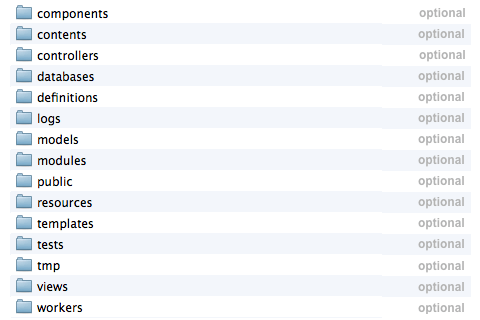
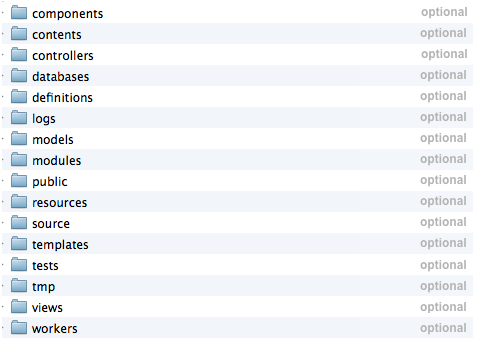
updated documentation

Changed region(s): [[0.0, 0.0, 0.25, 1.0], [0.875, 0.0, 0.9688, 1.0]]

diff --git a/views/directory.html b/views/directory.html
@@ -7,7 +7,7 @@
 </div>
 <br />
 <div class="image">
-	@{image('directory-structure.png', 480, 320, 'Directory structure')}
+	@{image('directory-structure.png', 480, 340, 'Directory structure')}
 	<div>total.js web project - directory structure</div>
 </div>
 
@@ -60,6 +60,11 @@
 <br />
 <h2>Directory: resources</h2>
 <div class="mt20 text"><span class="high">optional</span> If you create web pages that will be read by speakers of different languages, you must provide a way for readers to view the page in their own language. This way is resources. A resource file is a plain text file that contains the strings. Resource file has same syntax as a config file.<br /><br /><a href="/how-does-it-work/resources/" class="link">How do resources work?</a><br /><a href="/Framework/#framework.resource" class="link">Documentation: framework.resource()</a><br /><a href="/FrameworkController/#controller.resource" class="link">Documentation: controller.resource()</a><br /><a href="/FrameworkViews/#resource" class="link">Documentation: view @&#123;resource()&#125;</a><br /><div class="documentation-example"><a href="https://github.com/totaljs/examples/tree/master/localization-resources">Example</a></div></div>
+<br />
+<hr />
+<br />
+<h2>Directory: source</h2>
+<div class="mt20 text"><span class="high">optional</span> This directory contains <b>business logic</b> of your application.<br /><br /><a href="/Framework/#framework.source" class="link">Documentation: framework.source()</a><br /><a href="/global/#source" class="link">Documentation: source()</a><br /><a href="/global/#include" class="link">Documentation: include()</a><br /><div class="documentation-example"><a href="https://github.com/totaljs/examples/tree/master/framework-business-logic-source">Example</a></div></div>
 <br />
 <hr />
 <br />

diff --git a/views/how-it-works-validation.html b/views/how-it-works-validation.html
@@ -12,9 +12,9 @@
 		<li>All logic of validation is in one delegate - framework.onValidation().</li>
 		<li>Validation can be used in controller.</li>
 		<li>Result of validation is <a href="/Builders.ErrorBuilder/" class="link">Builders.ErrorBuilder</a>.</li>
-		<li>For the validation use <a href="/Builders.SchemaBuilder/" class="link">Builders.SchemaBuilder</a> - <a href="https://github.com/totaljs/examples/tree/master/framework-schema" class="link">Schema validation example</a>.</li>
+		<li>For the validation use <a href="/Builders.SchemaBuilder/" class="link">Builders.SchemaBuilder</a> - <a href="https://github.com/totaljs/examples/tree/master/framework-schema" class="link">Schema validation example</a> or <a href="https://github.com/totaljs/examples/tree/master/framework-schema-validation" class="link">Schema custom validation example</a>.</li>
 		<li class="red">Result of validation can serialize into the JSON format.</li>
-		<li>Documentation: <a href="/Framework/#framework.onValidation" class="link">framework.onValidation()</a></li>
+		<li>Documentation: <a href="/Framework/#framework.onValidation" class="link">framework.onValidation()</a>.</li>
 	</ul>
 </div>
 <div class="documentation-example"><a href="https://github.com/totaljs/examples/tree/master/validation">Validation example</a></div>

diff --git a/public/css/default101.css b/public/css/default101.css
@@ -72,6 +72,7 @@ p.text { margin: 0 0 20px 0; padding: 0; }
 .silver { color: silver; }
 .red { color: red; }
 .fs11 { font-size: 11px; }
+.fs12 { font-size: 12px; }
 .fl { float: left; }
 
 hr { border: 0; border-bottom: 1px solid #D0D0D0; border-top: 1px solid #F0F0F0; height: 1px; background-color: white; }
@@ -88,7 +89,7 @@ hr { border: 0; border-bottom: 1px solid #D0D0D0; border-top: 1px solid #F0F0F0
 .mt10 { margin-top: 10px !important; }
 .mt15 { margin-top: 15px !important; }
 .mt20 { margin-top: 20px !important; }
-
+.mb5 { margin-bottom: 5px; }
 .mb10 { margin-bottom: 10px !important; }
 .mb15 { margin-bottom: 15px !important; }
 .mb20 { margin-bottom: 20px !important; }
@@ -206,3 +207,4 @@ a.link:hover { color: #0092E6; }
 .keyvalue { height: 20px; border-bottom: 1px dotted #E0E0E0; margin-top: 3px; }
 .keyvalue > div { float: left; }
 .keyvalue > div:first-child { width: 200px; }
+.help { font-size:11px;padding:10px;width:300px;line-height:12px;position:absolute;margin:-90px 0 0 740px; }

diff --git a/views/homepage.html b/views/homepage.html
@@ -3,7 +3,7 @@
 <h1 class="center">Welcome in total.js documentation</h1>
 <div class="fs11 silver center">Free web application framework for building Web sites and Web applications using JavaScript, HTML and CSS.</div>
 <br />
-<div class="message message-alert">
+<div class="message message-success mt10 mb10">
 	Thank you for interesting of total.js - web application framework for node.js. I'm improving the quality and grammar of this documentation.
 </div>
 <br />
@@ -94,10 +94,10 @@ framework.run(https, debug, port, ip, options);
 		<li>01. Load configuration</li>
 		<li>02. Clear temporary directory</li>
 		<li>03. Load cache</li>
-		<li>04. Load definitions</li>
-		<li>05. Load controllers</li>
-		<li>06. Load modules</li>
-		<li>07. Load global module (#.js)</li>
+		<li>04. Load controllers</li>
+		<li>05. Load modules</li>
+        <li>08. Load components</li>
+        <li>07. Load definitions</li>
 		<li>08. Waiting for a request</li>
 	</ul>
 </div>

diff --git a/views/configuration.html b/views/configuration.html
@@ -75,6 +75,7 @@ directory-views                    : /views/
 directory-temp                     : /tmp/
 directory-templates                : /templates/
 directory-resources                : /resources/
+directory-source                   : /source/
 directory-public                   : /public/
 directory-modules                  : /modules/
 directory-logs                     : /logs/
@@ -116,6 +117,9 @@ default-layout                     : _layout
 // Default maximum request size / length (default 5 kB)
 default-request-length             : 5120
 default-websocket-request-length   : 5120
+
+// Auto encodeURIComponent &amp; decodeURIComponent text/JSON message
+default-websocket-encodedecode     : false
  
 // In milliseconds
 default-request-timeout            : 3000

diff --git a/views/_layout.html b/views/_layout.html
@@ -23,6 +23,7 @@
     <div class="container">
         <div>
             <a href="/">@{image('logo.png', 700, 90, 'total.js logo')}</a>
+            <div class="message message-alert help"><b>IMPORTANT:</b><div class="mt5 mb10">Source of documentation is on GitHub. If you see some bugs or wrong text, please update this documentation. Thanks.</div><a href="https://github.com/totaljs/documentation" class="fs12">Documentation on GitHub &rarr;</a></div>
         </div>
         <br />
         <div class="menu">
@@ -72,6 +73,9 @@
             <br />
             <div><strong>Additional</strong></div>
             @{template('menu', repository.menuAdditional)}
+            <br />
+            <div><strong>Globals</strong></div>
+            @{template('menu', repository.menuGlobals)}
         </div>    
         <div class="content">
             @{body}

diff --git a/views/how-it-works-controllers.html b/views/how-it-works-controllers.html
@@ -10,6 +10,7 @@
 <div class="text">
 	<ul>
 		<li>Controller is plain JavaScript file.</li>
+		<li>You can put file of controller into the different directories.</li>
 		<li>All controllers are stored in <span class="high-code">your-app/controllers/</span> directory.</li>
 		<li>Framework automatically loads each controller into the memory.</li>
 		<li><span class="high-code">exports.install</span> is executed automatically and one time.</li>

diff --git a/definitions/menu.js b/definitions/menu.js
@@ -4,5 +4,6 @@ framework.partial(function(next) {
 	self.repository.menuAdditional = self.module('docs').list('latest', 'Additional');
 	self.repository.menuPrototypes = self.module('docs').list('latest', 'Prototypes');
 	self.repository.menuBuilders = self.module('docs').list('latest', 'Builders');
+	self.repository.menuGlobals = self.module('docs').list('latest', 'Globals');
 	next();	
 });

diff --git a/views/how-it-works-authorization.html b/views/how-it-works-authorization.html
@@ -42,15 +42,14 @@
 	self.database('users').one(function(doc) { return doc.id === userId; }, function(user) {
 
 		if (user === null) {
-
 			// unlogged user
 			next(false);
 			return;
 		}
 
+		// Documentation: http://docs.totaljs.com/Framework/#framework.onAuthorization
 		// user is logged
-		req.user = user;
-		next(true);
+		next(true, user);
 
 	});
 
